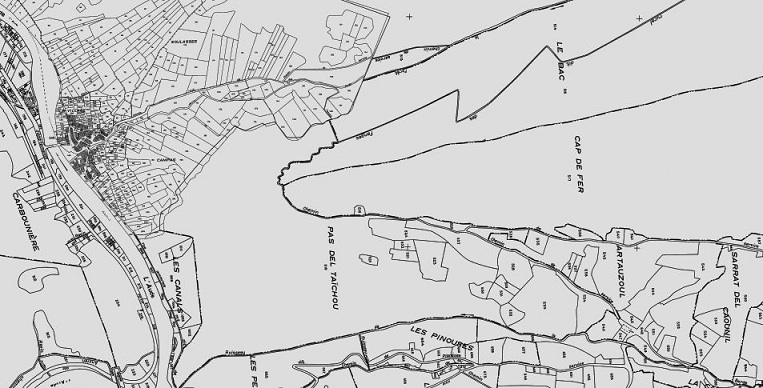
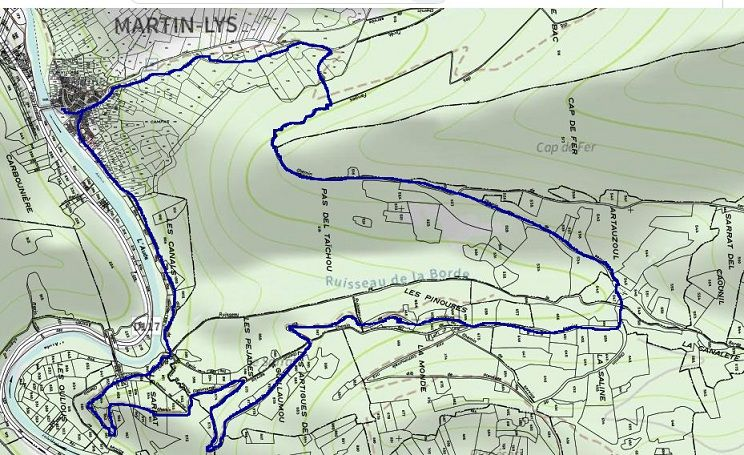
ajout lapradelle

diff --git a/lapradelle/lapradelle.html b/lapradelle/lapradelle.html
@@ -9,20 +9,30 @@
   <body>
 	<h1>Saint Martin Lys - chemin de Lapradelle</h1>
       <h2>Comment passer dans le Fenouillède.</h2>
-      <p></p>
-      <!--
-      <p>Napoléon premier pour rendre grâce à l'action de Félix Armand pour ses travaux de percement de la route de la Pierre-Lys, lui écrivit une lettre de félicitations disant que "l'état deviendrait son trésorier et que rien ne lui manquerait, puisque entre les mains d'un prêtre le billon se changeait en or massif." <sup>1</sup> : à cette occasion, il donna un bon sur sa cassette et offrit le ciboire.<br>
-      </p>
-      <img src="images/P1210706%20ciboire.JPG" alt="St Martin Lys, le ciboire de Napoléon" width="518" height="689"> 
-     
-      <p class="Legende-image">Le ciboire de Napoléon.<br>Vermeil (argent doré) - 1808<br>offert à Felix Armand en homage à son oeuvre</p>
+      <p>Depuis St Martin, en passant par le Pas del Taïchou, en longeant les champs du Camp Grand, il est possible (difficilement aujourd'hui...) de rejoindre l'"ancien chemin de Quillan à Puilaurens" et ainsi de déscendre dans le Fenouillèdes. <br>
+      <img src="images/Carte%20avec%20chemin%20Lapradelle%20gos%20plan%20St%20Martin.JPG" alt="St Martin Lys, carte du chemin de Lapradelle - gros plan depuis St Martin" width="714" height="417"><br>
+      <img src="images/Carte%20avec%20chemin%20Lapradelle%20vue%20g%C3%A9n%C3%A9rale.JPG" alt="St Martin Lys, carte du chemin de Lapradelle - trajet St Martin Lapradelle" width="714" height="367"><br>              
+      <img src="images/Carte%20d'%C3%A9tat%20major%20chemein%20St%20Martin%20Lapradelle.JPG" alt="St Martin Lys, carte du chemin de Lapradelle - carte d'état major" width="714" height="253">              
+      <p class="Legende-image">Le chemin de Lapradelle est tracé en bleu sur les 3 plans<br>Le premier est un gros plan pour fixer le chemin jusqu'au camp grant,<br>les 2 autres dessinent le trajet complet sur des supports de dates différentes<br>Cf le nom "révolutionnaire" de St Martin sur la dernière, suite à erreur sur le bulletin des lois (Duvergier, XIII, 45; arrêté du 13 brumaire an x)</p>
+          
+      <p>C'est par ce chemin que sont arrivés les premiers habitants d'Artozoul, puis de la vallée de Saint Martin, suivis rapidement par les moines qui ont fondé l'abbaye.<br>Pendant de nombreuses années ce fut le seul accès possible à notre village.<br>Puis le commerce s'est établi vers l'aval de l'Aude, délaissant progressivement ces régions trop souvent en conflit avec la Catalogne ou l'Espagne.</p>
+      <p>Heureusement, grace à l'entretien partiel par les chasseurs de Saint Martin jusqu'au point de vue du Pas del Taïchou (voir photos ci-dessous), il est encore possible de rejoindre Artosoul. Mais le chemin est difficile dans toute sa partie ascendante haute à flan du Cap de fer, suite à de nombreux éboulements qui ont emporté une grande partie de ce chemin. 
+      <img src="images//Carte%20d'%C3%A9tat%20major%20chemein%20St%20Martin%20Lapradelle.JPG" alt="St Martin Lys, carte du chemin de Lapradelle - carte d'état major" width="714" height="253">  
+          
+      <p class="Legende-image">Le chemin de Lapradelle est tracé en bleu sur les 3 plans<br>Le premier est un gros plan pour fixer le chemin jusqu'au Camp Grant,<br>les 2 autres dessinent le trajet complet sur des supports de dates différentes<br>Cf le nom "révolutionnaire" de St Martin (de Taissac) sur la dernière, suite à erreur sur le bulletin des lois (Duvergier, XIII, 45; arrêté du 13 brumaire an x)</p>   
+      <img src="images/0730%20l'Aude%20-%20Vue%20du%20chemin%20du%20col%20de%20St%20Martin.JPG" alt="St Martin Lys, du chemin de Pas del Taïchou" width="692" height="519"> 
+      <p class="Legende-image">Le chemin de Lapradelle en Montant au dessus de St Martin<br>vue sur le chemin avant le Pas del Taïchou</p>
+      <img src="images/0735%20village%20-%20Vue%20du%20chemin%20du%20col%20du%20camp%20grand.JPG" alt="St Martin Lys, vue du Pas del Taïchou" width="692" height="519"> 
+      <p class="Legende-image">Vue de St Martin depuis le Pas du Taïchou<br> </p>
+      <p>Le Pas du Taïchou (blaireau en occitan) est le col permettant de passer d'un coté à l'autre du cap de fer et donc de basculer sur le camp grant. Ce pas se trouve à la limite nord du cap et surplombe St Martin (voir photo ci-dessus).<br> c'est à ce point que se draissait la croix "immémorielle" conté à la page sur la <a href="../croix/croix.html">croix</a>. Cette croix aujourd'hui disparue se trouvait juste où est assise Mélissa...</p>
+      <img src="images/0742%20M%C3%A9lissa%20en%20hauteur%20-%20col%20du%20camp%20grant.JPG" alt="St Martin Lys, vue du rochet du Pas del Taïchou" width="692" height="519"> 
+      <p>Cette croix est décrite dans les termes suivants par l'abbé Utéza<sup>1</sup> : "<i>La croix qui est sur la montagne au levant, dite de Saint-Michel, en vue du village, en deçà de laquelle était la chapelle de Saint-Michel, où l'on trouva des ossements il y a deux ans, cette croix, de coeur de chêne, date d'un temps immémorial"</i></p>
+      <p>La suite du chemin de Lapradelle, tout le long du camp grant est systématiquement occupée par de gros chênes verts, mais il est relativement aisé d'en suivre son ancien tracé car la friche d'herbes arrive souvent jusqu'à sa limite. Il est possible tout du long de voir les anciennes bergeries qui le bordaient, avec toutes, leur toit de tuiles effondré (mais qui restent en meilleur état que les anciennes batisses d'Artozoul...). Plus loin on rentre dans la forêt même et le tracé du chemin se devine plus par le dénivelé que par des restes de muret quasiment plus existants, mais il finit par déboucher sur la route des Fanges et se prolonge en la traversant par un chemin qui lui est resté entretenu.</p>
       
-      <p>Un ancien habitant était revenu au village avec son fils pour constituer un recueil des légendes de St Martin.<br>Ils s'étaient logiquement adressés à la maison car les personnes les plus agées y tenaient salon de thé tous les après-midis (moyenne d'age 85 ans...). Les arrières grands-mères s'étaient prétées au jeu et avaient raconté leurs souvenirs. Malheureusement pour moi, c'était toujours les même histoires : les moines assacinés, le trésor caché, le souterrain reliant les églises, le 15 août et le chant des moines, le clavecin les jours de pluie...<br>
-      Quand soudain, est arrivée ma grand mère avec un torchon à la main. En ouvrant ce torchon, est apparu un objet doré que je n'avais jamais vu et dont je ne connaissais pas l'usage (à 10 ans, on sait pas toujours tout...).<br>
-      Alors Mamie a montré à tous le ciboire et a raconté Napoléon, Félix Armand. Elle nous a expliqué le vermeil, comment depuis l'époque le Ciboire passait de main en main entre personnes de confience et avait pu être conservé au village, contrairement à d'autres objets de valeur comme la croix en ivoire et la statue de la vierge aujourd'hui disparues.</p>
-      <p>Dernièrement (2016) la commune a prété le ciboire pour une exposition organisée par le département, ce qui a permi de référencer l'objet, le rendant par là même impropre à la revente.</p>
-      <p><br><sup>1</sup>p 66 de "<a href="https://books.google.fr/books?id=zx5BAAAAYAAJ&dq=%22F%C3%A9lix%20Armand%20m%C3%A9ritait%20son%20attention%22&hl=fr&pg=PA66#v=onepage&q=%22F%C3%A9lix%20Armand%20m%C3%A9ritait%20son%20attention%22&f=false">Vie de Félix Armand, curé de Saint-Martin, diocèse de Carcassonne; Auteur de la route de la Pierre-Lis</a>" par M. J.-P. DE LA CROIX.)</p>
-      -->
+    (photos à suivre)
+     
+      <p><br><sup>1</sup>Courrier du 22 novembre 1838 à Jules Blancard repris dans  Louis Amiel dans "FÉLIX ARMAND, CURÉ DE SAINT-MARTIN-LYS, SA VIE ET S0N OEUVRE"</p>
+     
       <p><br><a  class="Bouton-retour" href="../index.html">Retour à l'accueil</a>&nbsp;&nbsp;&nbsp;&nbsp;&nbsp;<a class="Bouton-precedent" href="../artosoul/artosoul.html">Précédent</a>&nbsp;&nbsp;&nbsp;&nbsp;&nbsp;<a class="Bouton-suivant" href="../planeses/planeses.html">Suivant</a></p>	
   </body>
 </html>

diff --git a/artosoul/artosoul.html b/artosoul/artosoul.html
@@ -11,20 +11,25 @@
   <body>
 	<h1>Saint Martin Lys - Artosoul (ou Artozoul ou Artauzoul ou Artozouls)</h1>
       <h2>Le village abandonné</h2>
-      <p>Le camp grand est une grande étendue herbeuse à flan de montagne quasiment aussi pentue que celle au dessus de St Martin. Cette grande friche a du avoir longtemps le même usage, vigne et paturage pour mouton, pas suffisament fertile et trop en pente pour y faire pousser autre chose, mais gardant la trace de l'exploitation humaine (reste de murets et non repousse des chênes verts qui occupent encore le haut de l'espace au dessus du chemin de <a href=../lapradelle/lapradelle.html>La Pradelle</a>. Compris entre le ruisseau de La Borde et ce chemin à mi hauteur de montagne, exposée entièrement au plein sud, ce coteau était entretenu par les habitants d'un petit hameau se trouvant en bordure du filet d'eau qui coule en hiver. L'espace du hameau sur certaines cartes est aujourd'hui appelé "le clot", mais sur des cartes plus anciennes son nom effectif apparait : Artozoul ou Artauzoul.</p>
+      <p>Le camp grand est une grande étendue herbeuse à flan de montagne quasiment aussi pentue que celle au dessus de St Martin.</p>
+      <img src="images/carte%20vue%20a%C3%A9rienne%201950%20camp%20grant.JPG" alt="Artozoul, le camp grant" width="697" height="316">
+      <p class="Legende-image">Vue aérienne des années 1950,<br>En haut gauche, on aperçoit St Martin, en transversale de la photo le Cap de fer, en dessous du Cap de fer, le grand champ partiellement cultivé est le "camp grant" d'Artozoul.</p>
+      
+      <p>Cette grande friche a du avoir longtemps le même usage que celle au dessus de St Martin, vigne et paturage pour mouton, pas suffisament fertile et trop en pente pour y faire pousser autre chose, mais gardant la trace de l'exploitation humaine (reste de murets et non repousse des chênes verts qui occupent encore le haut de l'espace au dessus du chemin de <a href=../lapradelle/lapradelle.html>La Pradelle</a>. Compris entre le ruisseau de La Borde et ce chemin à mi hauteur de montagne, exposée entièrement au plein sud, ce coteau était entretenu par les habitants d'un petit hameau se trouvant en bordure du filet d'eau qui coule en hiver. L'espace du hameau sur certaines cartes est aujourd'hui appelé "le clot", mais sur des cartes plus anciennes son nom effectif apparait : Artozoul ou Artauzoul.</p>
       
       <img src="images/carte d'état major - Artozouls.JPG" alt="Artozoul, carte d'état major" width="583" height="308">
-      <img src="images/cadastre%20Artauzoul.JPG" alt="Artozoul, cadastre" width="763" height="388">
-      
+           
       <p>La première fois que ma mère m'y a conduit, qu'elle était fière de me montrer ce haut mur de pierre, avec ce trou, petit, qui pour elle ne pouvait être qu'une meurtrière. Ce devait être un chateau pour avoir des murs aussi hauts, selon elle.</p>
       <p>Des recherches postérieures m'ont permis d'identifier ce lieu : il s'agit des restes de l'église St Michel. Et même si quelqu'un a eu l'idée de construire sa bergerie à l'interieur pour facilement récupérer les matériaux, elle reste le "batiment le mieux conservé" des 5 ou 6 restes de batisse qui ont dû occuper cet espace (voir photos à venir...). Le passage "à gué" du ruisseau et les traces du chemin qui remonte vers le nord sont les repères les plus visibles de cette occupation humaine et de la vie qu'a pu connaître ce petit village dépendant de Saint Martin.</p>
+      <p>2 Chemins permettent d'atteindre ce village ce qui permet de faire un circuit autour de Saint Martin plus court que celui de la forêt des Fanges et par certains points tout aussi sympatiques (chemin de planèzes - Pas del Taïchou) </p>
+       <img src="images/cadastre%20Artauzoul.JPG" alt="Artozoul, cadastre, circuit pédestre" width="744" height="455">
+      <p class="Legende-image">Le circuit pédestre possible dessiné en bleu</p>
       
       <p> Les mentions que j'ai trouvé pour Artosoul :<br>
       <i>"Lorsque la persécution semblait se ralentir, Félix Armand amenait ses paroissiens à une lieue du village au milieu des rochers : ils s'acheminaient ensemble vers la chapelle de Saint-Michel, qui était autrefois le lieu de réunion d'été du monastère. On avait déblayé le sol, et du sein des décombres, s'élevait un autel où le vénérable pasteur célébrait le divin sacrifice.<br>
       Il y a deux ans encore, le propriétaire de ce lieu saint déterra en bêchant la terre, une grande quantité d'ossements. Ce lieu avait été sans doute pendant quelque temps le cimetière du couvent, puisque des tombes y furent découvertes ; les squelettes y étaient encore dans un état parfait de conservation en 1828.</i><sup>1</sup><br>
       Louis Amiel fait une description à peu près similaire, sauf qu'il situe très mal les lieux, aussi je ne reproduirai pas son texte... Dans la page sur le chemin de La Pradelle, je reprendrai les courriers du père Utéza contenus dans l'ouvrage d'Amiel qui me semblent de circonstance.</p>
-      
-      
+      <br>
       <img id="anc-culte" src="images/Capture.JPG" alt="St Martin Lys, les anciens lieux de cultes" width="542" height="470"> 
       <p class="Legende-image">Les anciens lieux de cultes<sup>2</sup> sur la commune de St Martin avant la destruction du couvent (référence 8, 9 et 12)<br>pour cette page, c'est la référence 9 qui nous interesse : Saint-Michel-d'Artosoul</p>
       
@@ -56,8 +61,7 @@
       
       Et encore plus direct : <i><a href="https://www.geneanet.org/nom-de-famille/ARTOZOUL">Origine du nom ARTOZOUL</a> : Étymologie - Artozoul : Porté dans l'Aude, désigne celui qui est originaire d'Artozoul, ancien village et prieuré sur la commune de Saint-Martin-Lys.</i> (jolie carte de localisation des personnes concernées) </p>
       
-       
-      
+            
       <p><br><sup>1</sup>p 66 de "<a href="https://books.google.fr/books?id=zx5BAAAAYAAJ&dq=Lorsque%20la%20pers%C3%A9cution%20semblait%20se%20ralentir&hl=fr&pg=PA56#v=onepage&q=Lorsque%20la%20pers%C3%A9cution%20semblait%20se%20ralentir&f=false">Vie de Félix Armand, curé de Saint-Martin, diocèse de Carcassonne; Auteur de la route de la Pierre-Lis</a>" par M. J.-P. DE LA CROIX.)<br>
       <sup>2</sup>Annales du Midi - Année 1973 - tome 85, n°114 - pages 436 dans <a href="www.persee.fr/doc/anami_0003-4398_1973_num_85_114_4831">Identification des deux châteaux et de l'abbaye de Fenouillet (Pyrénées-Orientales)"</a> par André Soutou<br>
       <sup>3</sup>p 134 de<a href="http://garae.fr/Folklore/R52_008_10_1938.pdf">FOLKLORE -AUDE n°8 d'octobre 1938</a> "Notes de toponymie audoise, les noms de lieux en ÔZOULS" de L. ALIBERT (site <sup>4</sup>)<br>

diff --git a/index.html b/index.html
@@ -93,7 +93,7 @@
 			 <li>le camp grant (clot)
 				<ul>
 					<li><a href="artosoul/artosoul.html">Artosoul (métairie)</a></li>
-					<li>le chemin de Lapradelle</li>
+					<li><a href="lapradelle/lapradelle.html">le chemin de Lapradelle</a></li>
 				</ul>
 			 </li>
              <li>le plateau de Planèses</li>
